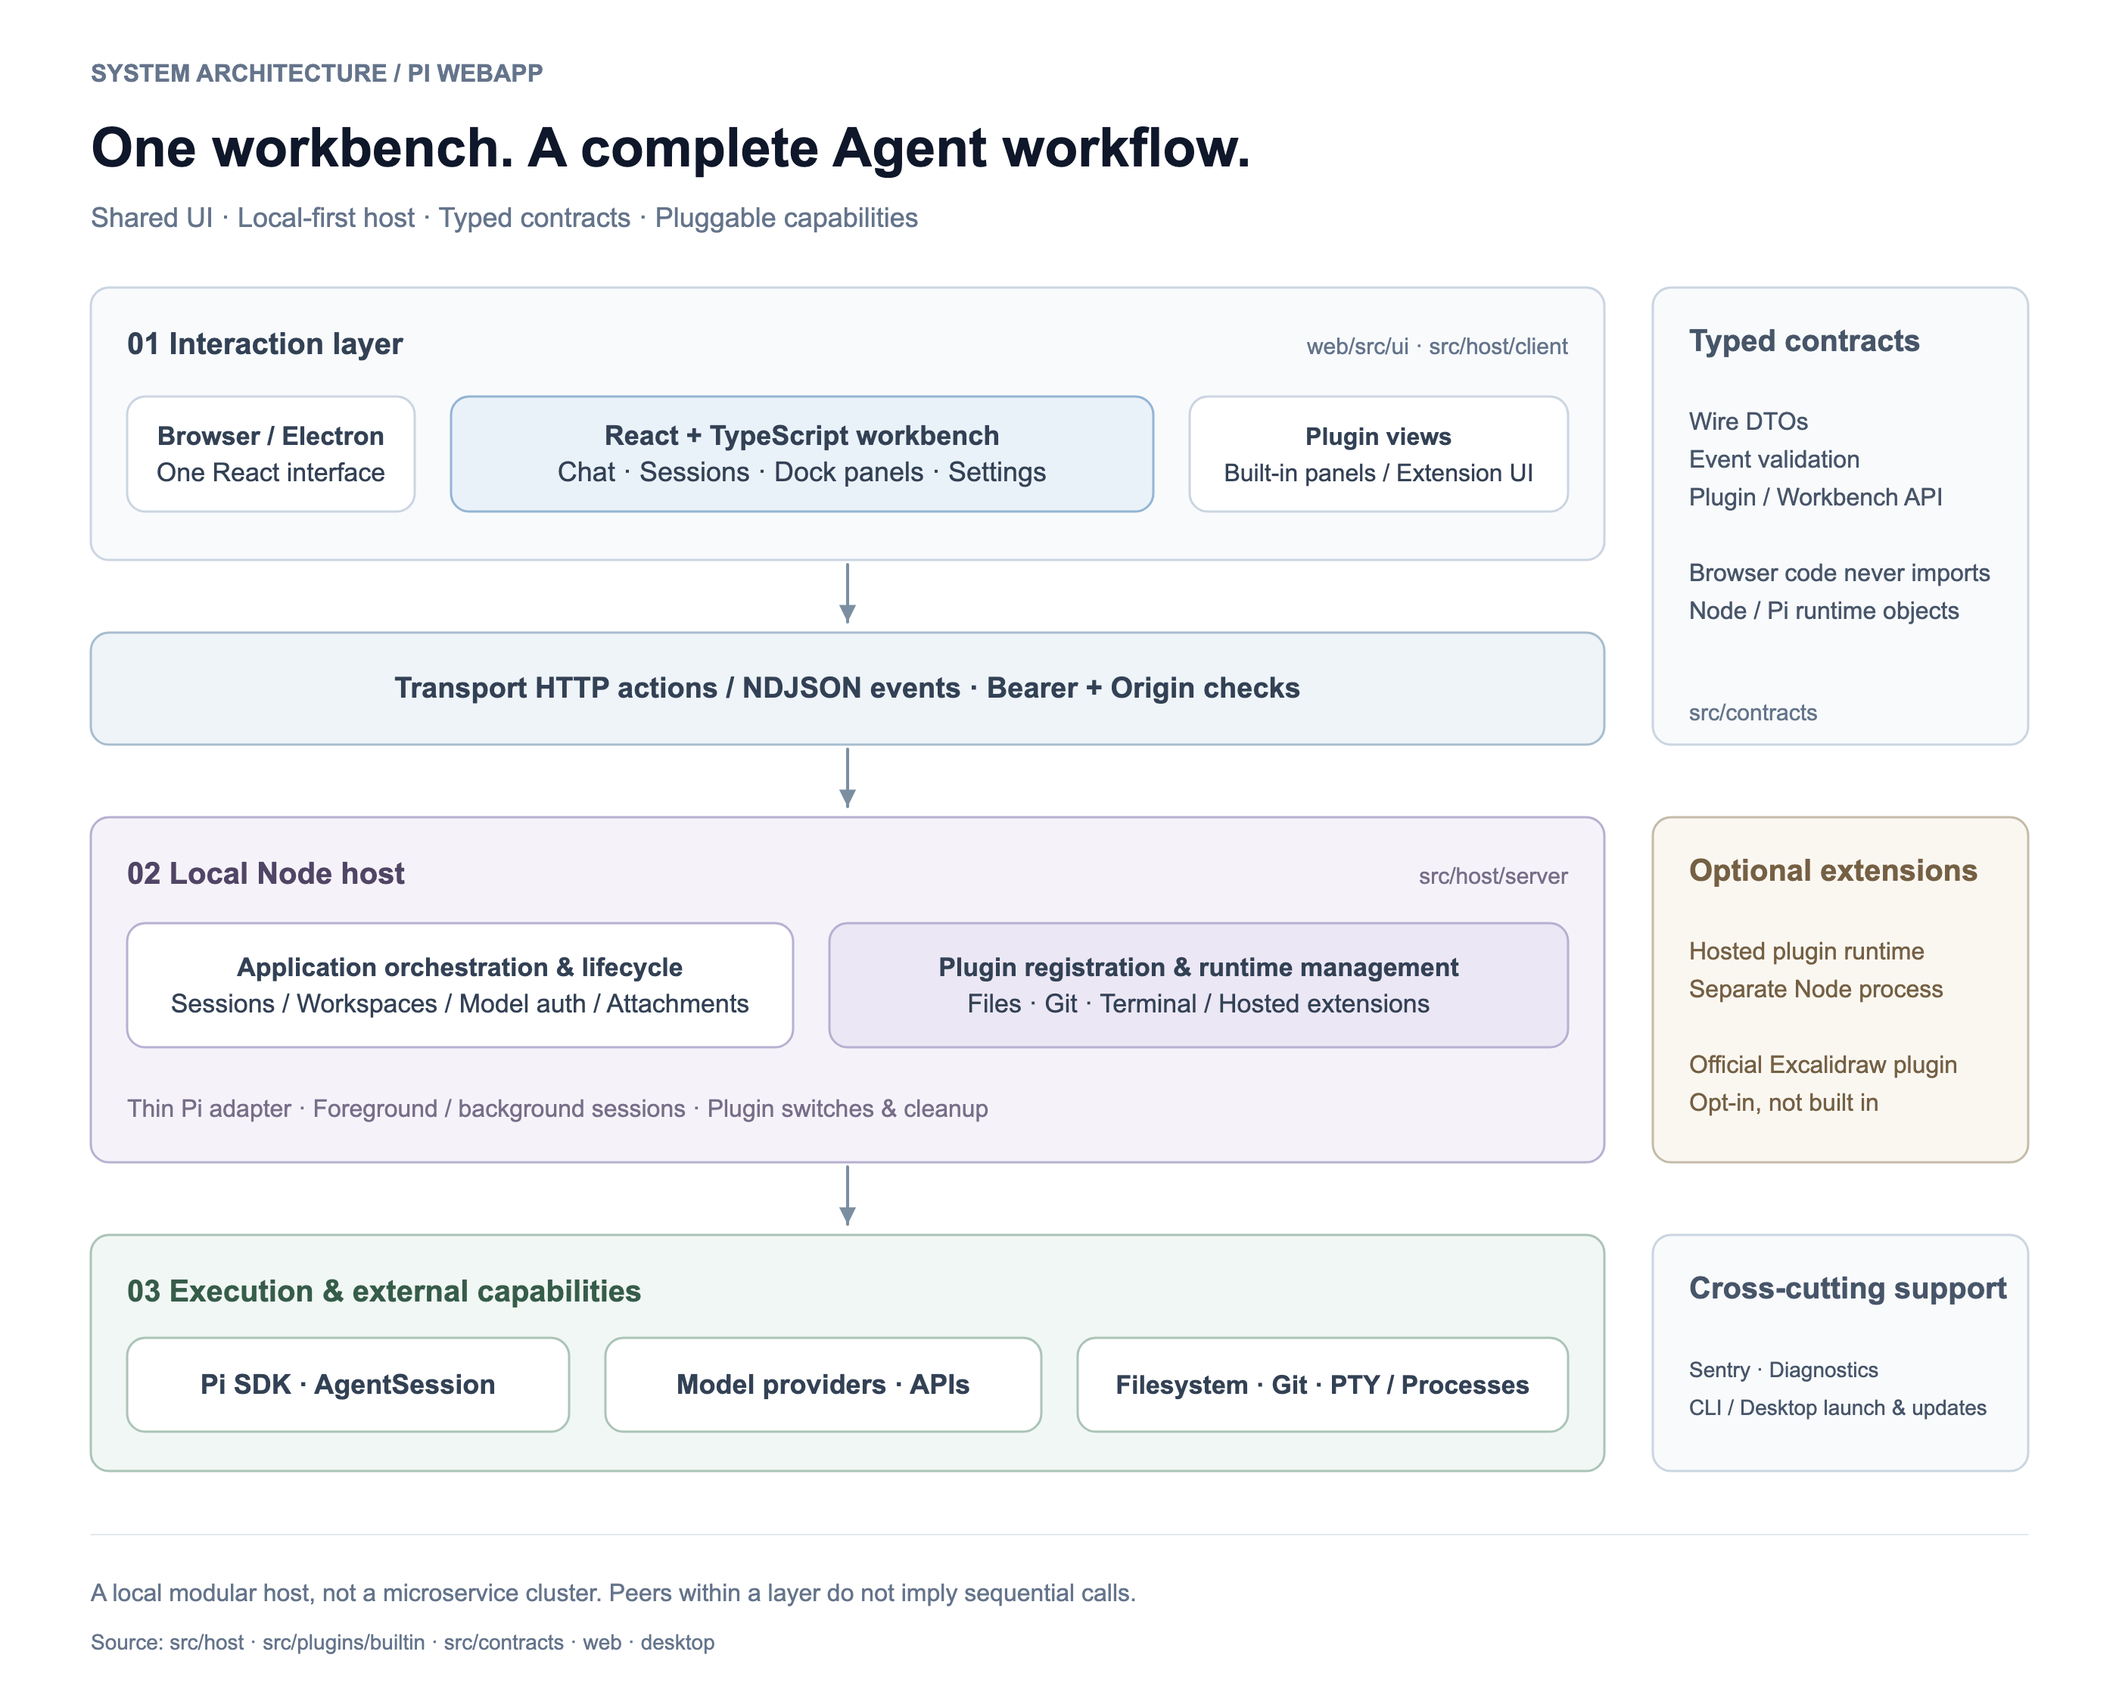
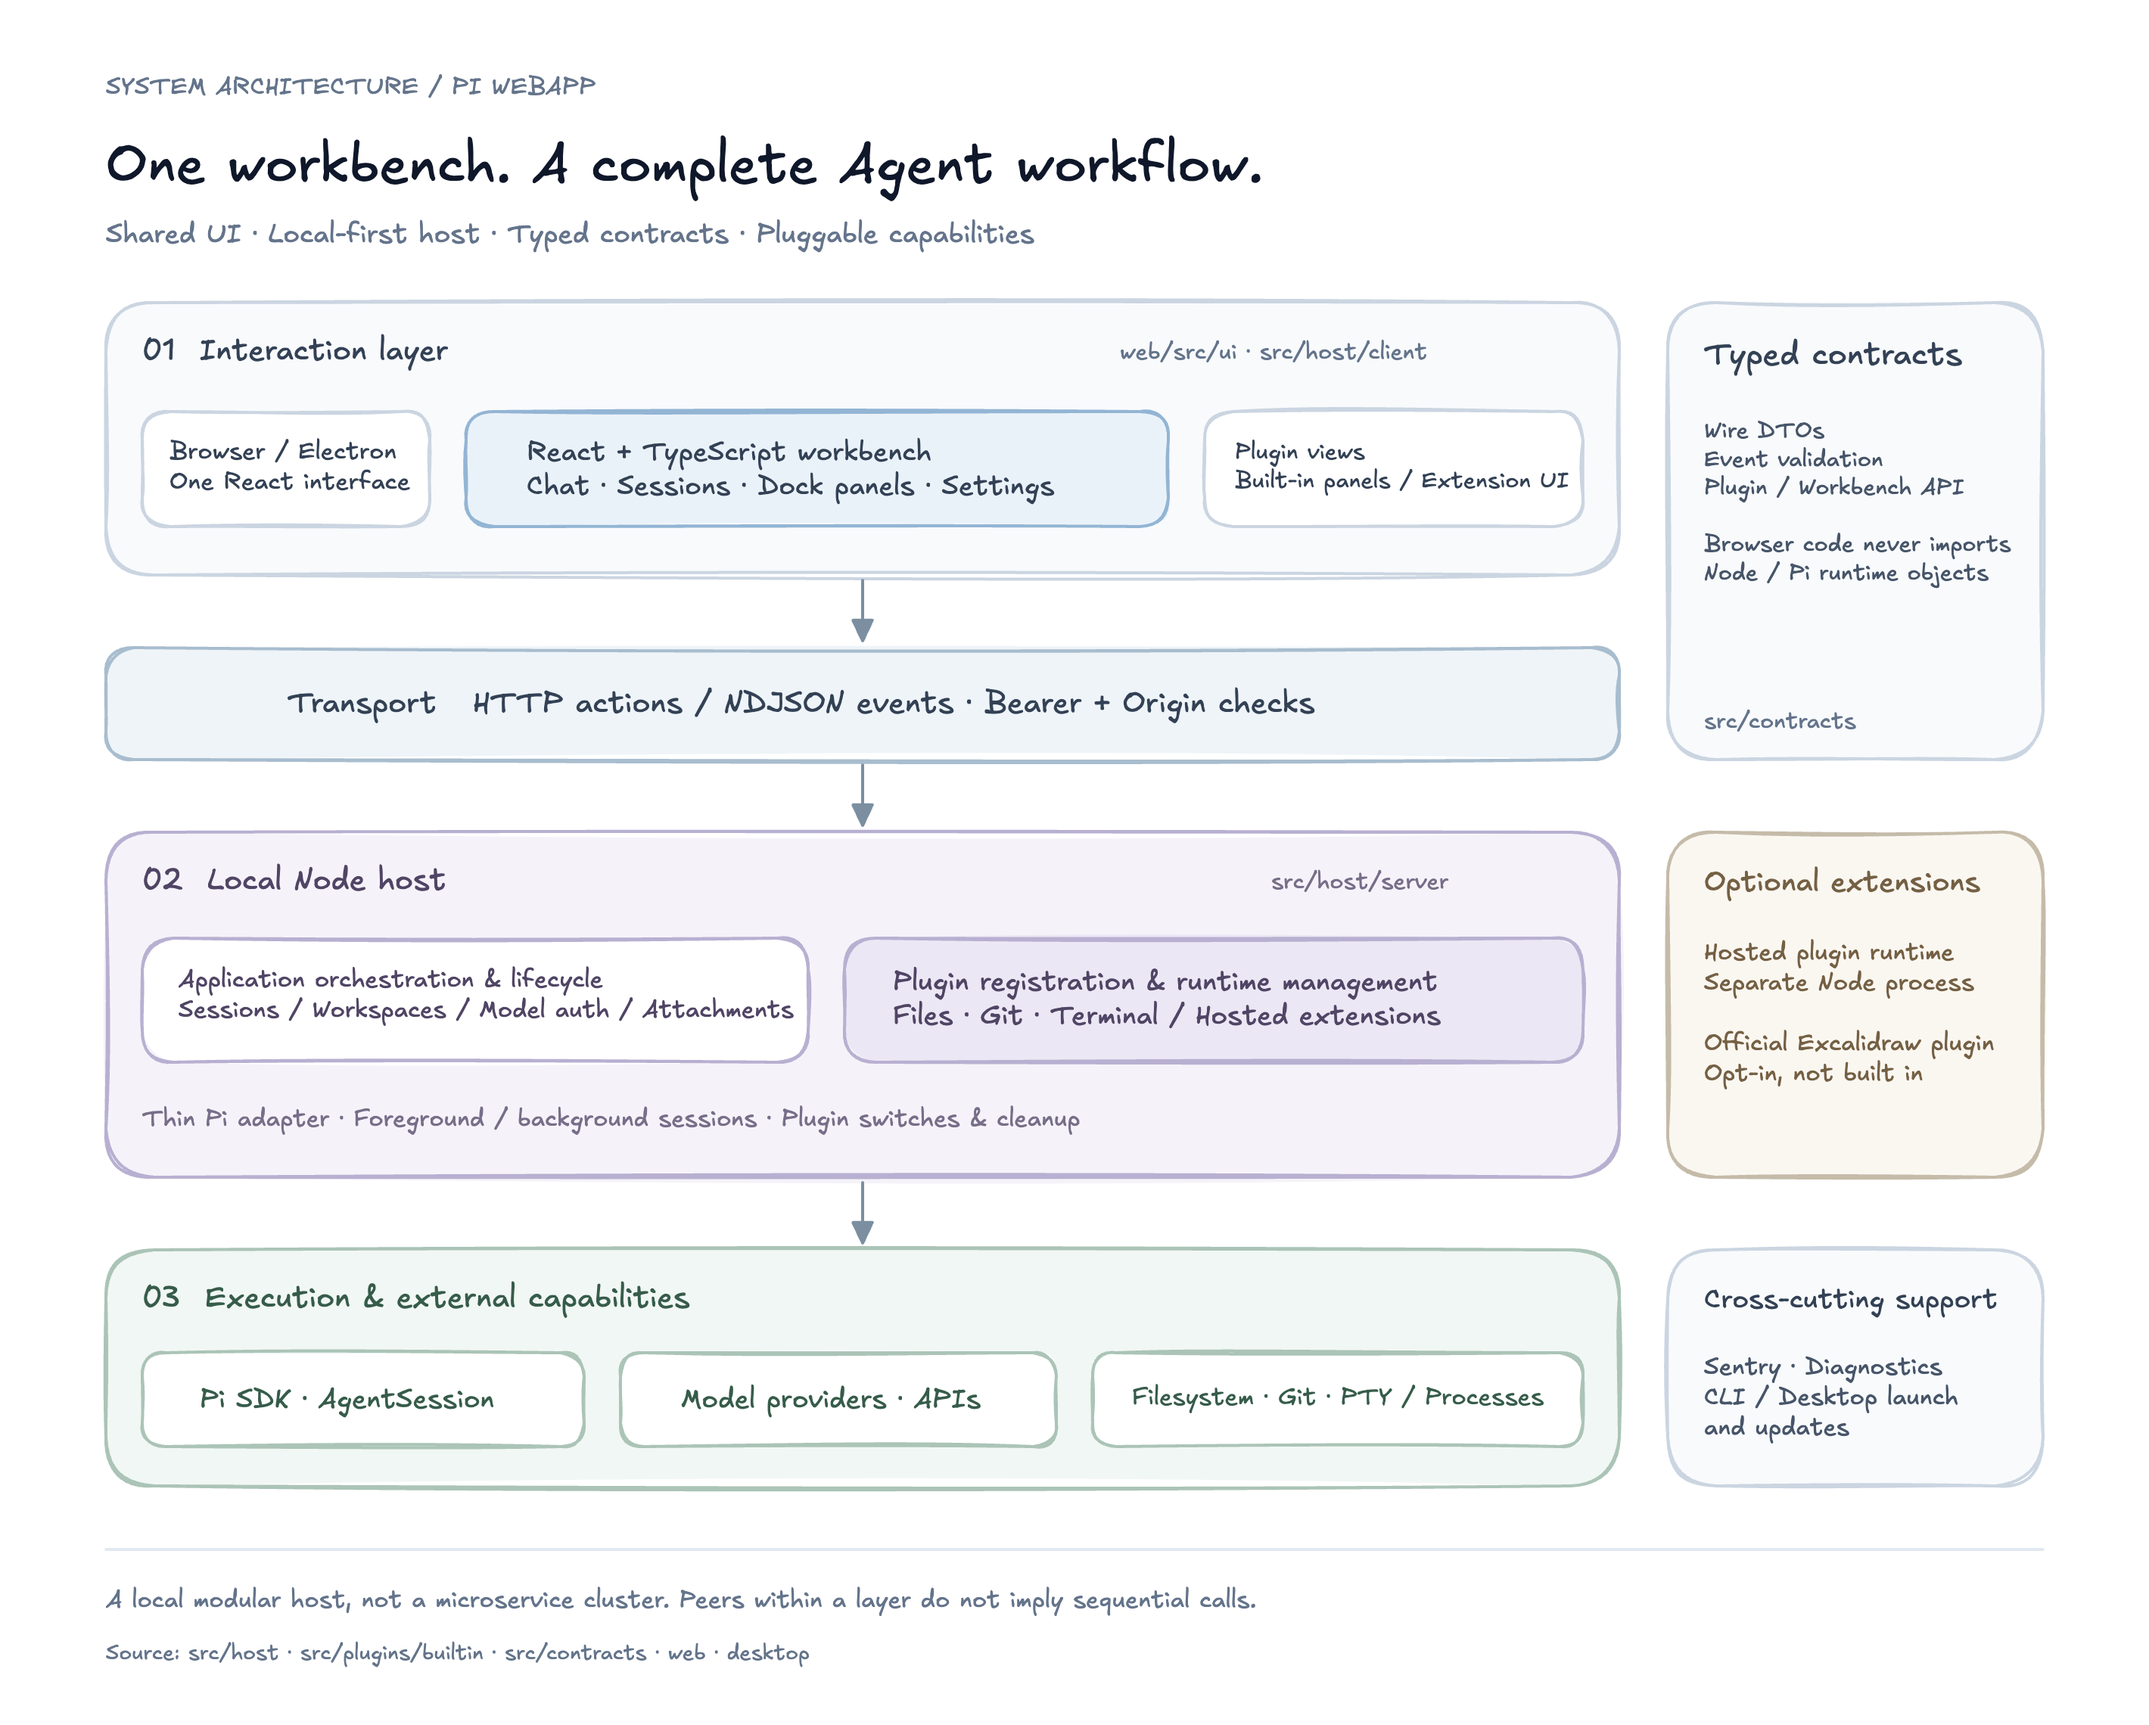
docs(readme): use hand-drawn English architecture image
Replace architecture-en.png with the user-supplied hand-drawn original
and document that both architecture PNGs must be preserved when
regenerating the SVG counterparts.

diff --git a/assets/readme/README.md b/assets/readme/README.md
@@ -9,7 +9,7 @@ The UI screenshots illustrate the real pi-webapp interface using **seeded demo c
 | `terminal.png` | Terminal tool panel: actual Node test execution in the disposable project, with two passing tests. |
 | `excalidraw.png` | Actual optional Excalidraw plugin tool card, with a seeded hand-drawn workflow and native Edit entry. Captured at 2× density, not a fabricated UI or live model transcript. |
 | `architecture-zh.png` | User-supplied hand-drawn architecture image, embedded directly in the Chinese README. Preserve this original when regenerating SVGs. |
-| `architecture-en.png` | High-resolution English architecture image, embedded directly in the English README. |
+| `architecture-en.png` | User-supplied English hand-drawn architecture image (2840 × 2280), embedded directly in the English README. Preserve this original when regenerating SVGs. |
 | `architecture-en.svg` / `architecture-zh.svg` | Editable vector counterparts using the same layered composition; the Chinese PNG retains the supplied hand-drawn styling. No remote fonts, scripts, or embedded private data. |
 
 ## Regenerate screenshots
@@ -48,7 +48,7 @@ Regenerate both localized SVGs from their shared layout and copy:
 node scripts/generate-readme-architecture.mjs
 ```
 
-READMEs embed PNGs for image-renderer compatibility; keep the workbench, Git, and terminal screenshots visible as well. The Chinese PNG is the user's supplied original, not a generated SVG export. To refresh the English PNG, render `architecture-en.svg` at 2× pixel density (2800 × 2240) with a browser screenshot. Verify all five embedded images load in each README.
+READMEs embed PNGs for image-renderer compatibility; keep the workbench, Git, and terminal screenshots visible as well. Both architecture PNGs are user-supplied hand-drawn originals, not generated SVG exports. Do not overwrite them when regenerating the vector counterparts. Verify all five embedded images load in each README.
 
 Edit the generator rather than the generated SVGs. Keep both languages, dimensions, and palette in sync; check responsibilities against the current source and `docs/architecture.md`. The diagrams include accessible titles/descriptions and use only local text and vector shapes. Validate XML and browser rendering, including text bounds, after regeneration. Same-layer placement does not imply sequential calls; process boundaries do not imply security sandboxes.
 
